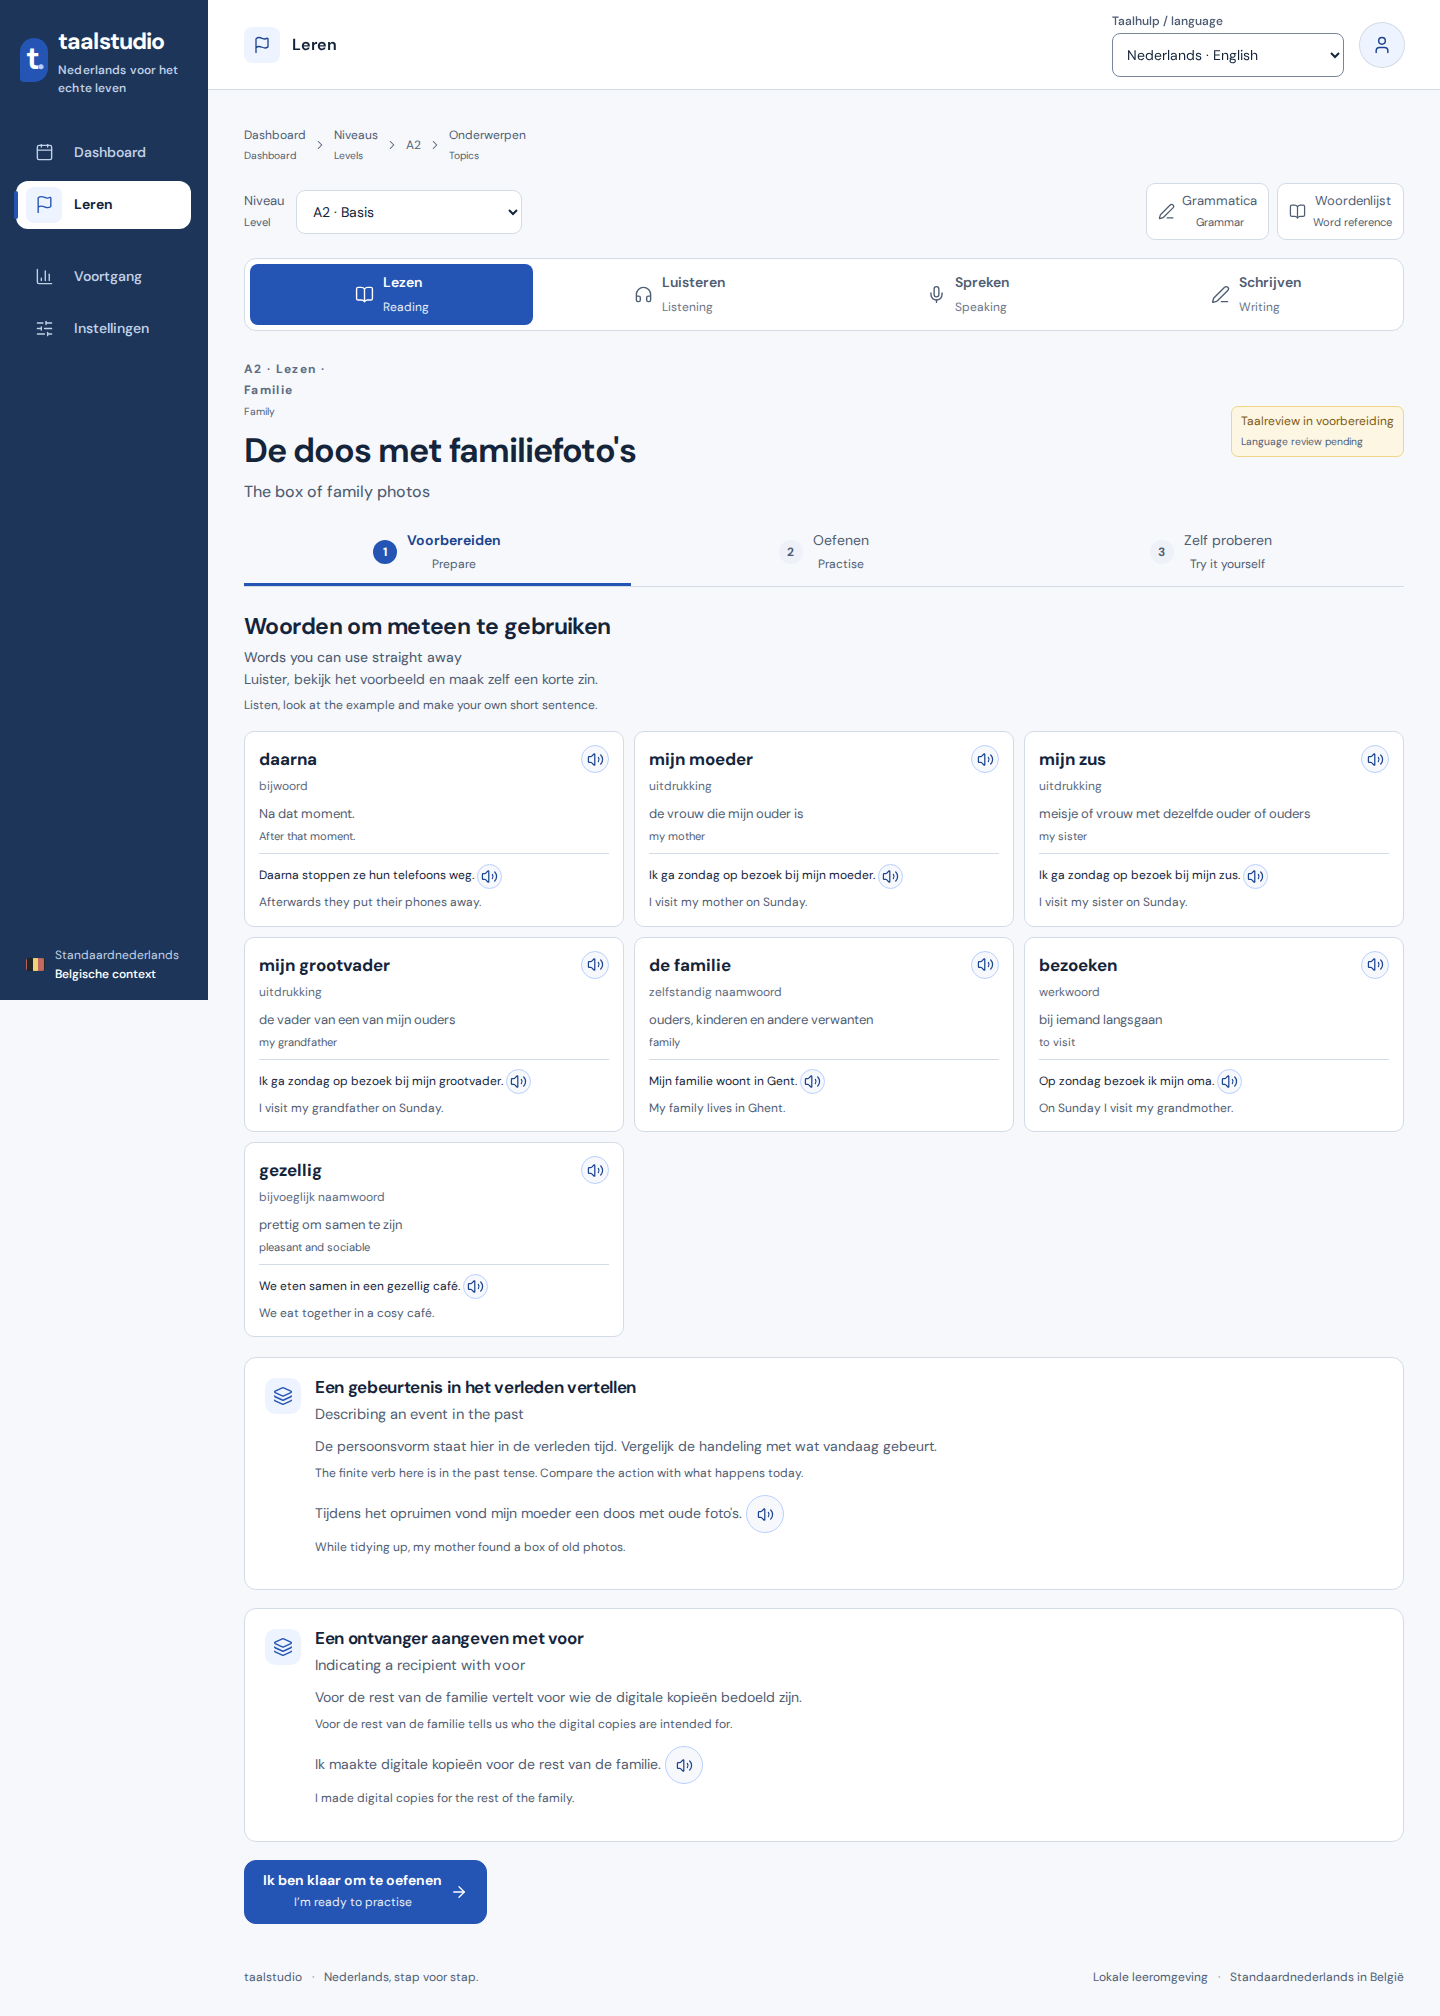
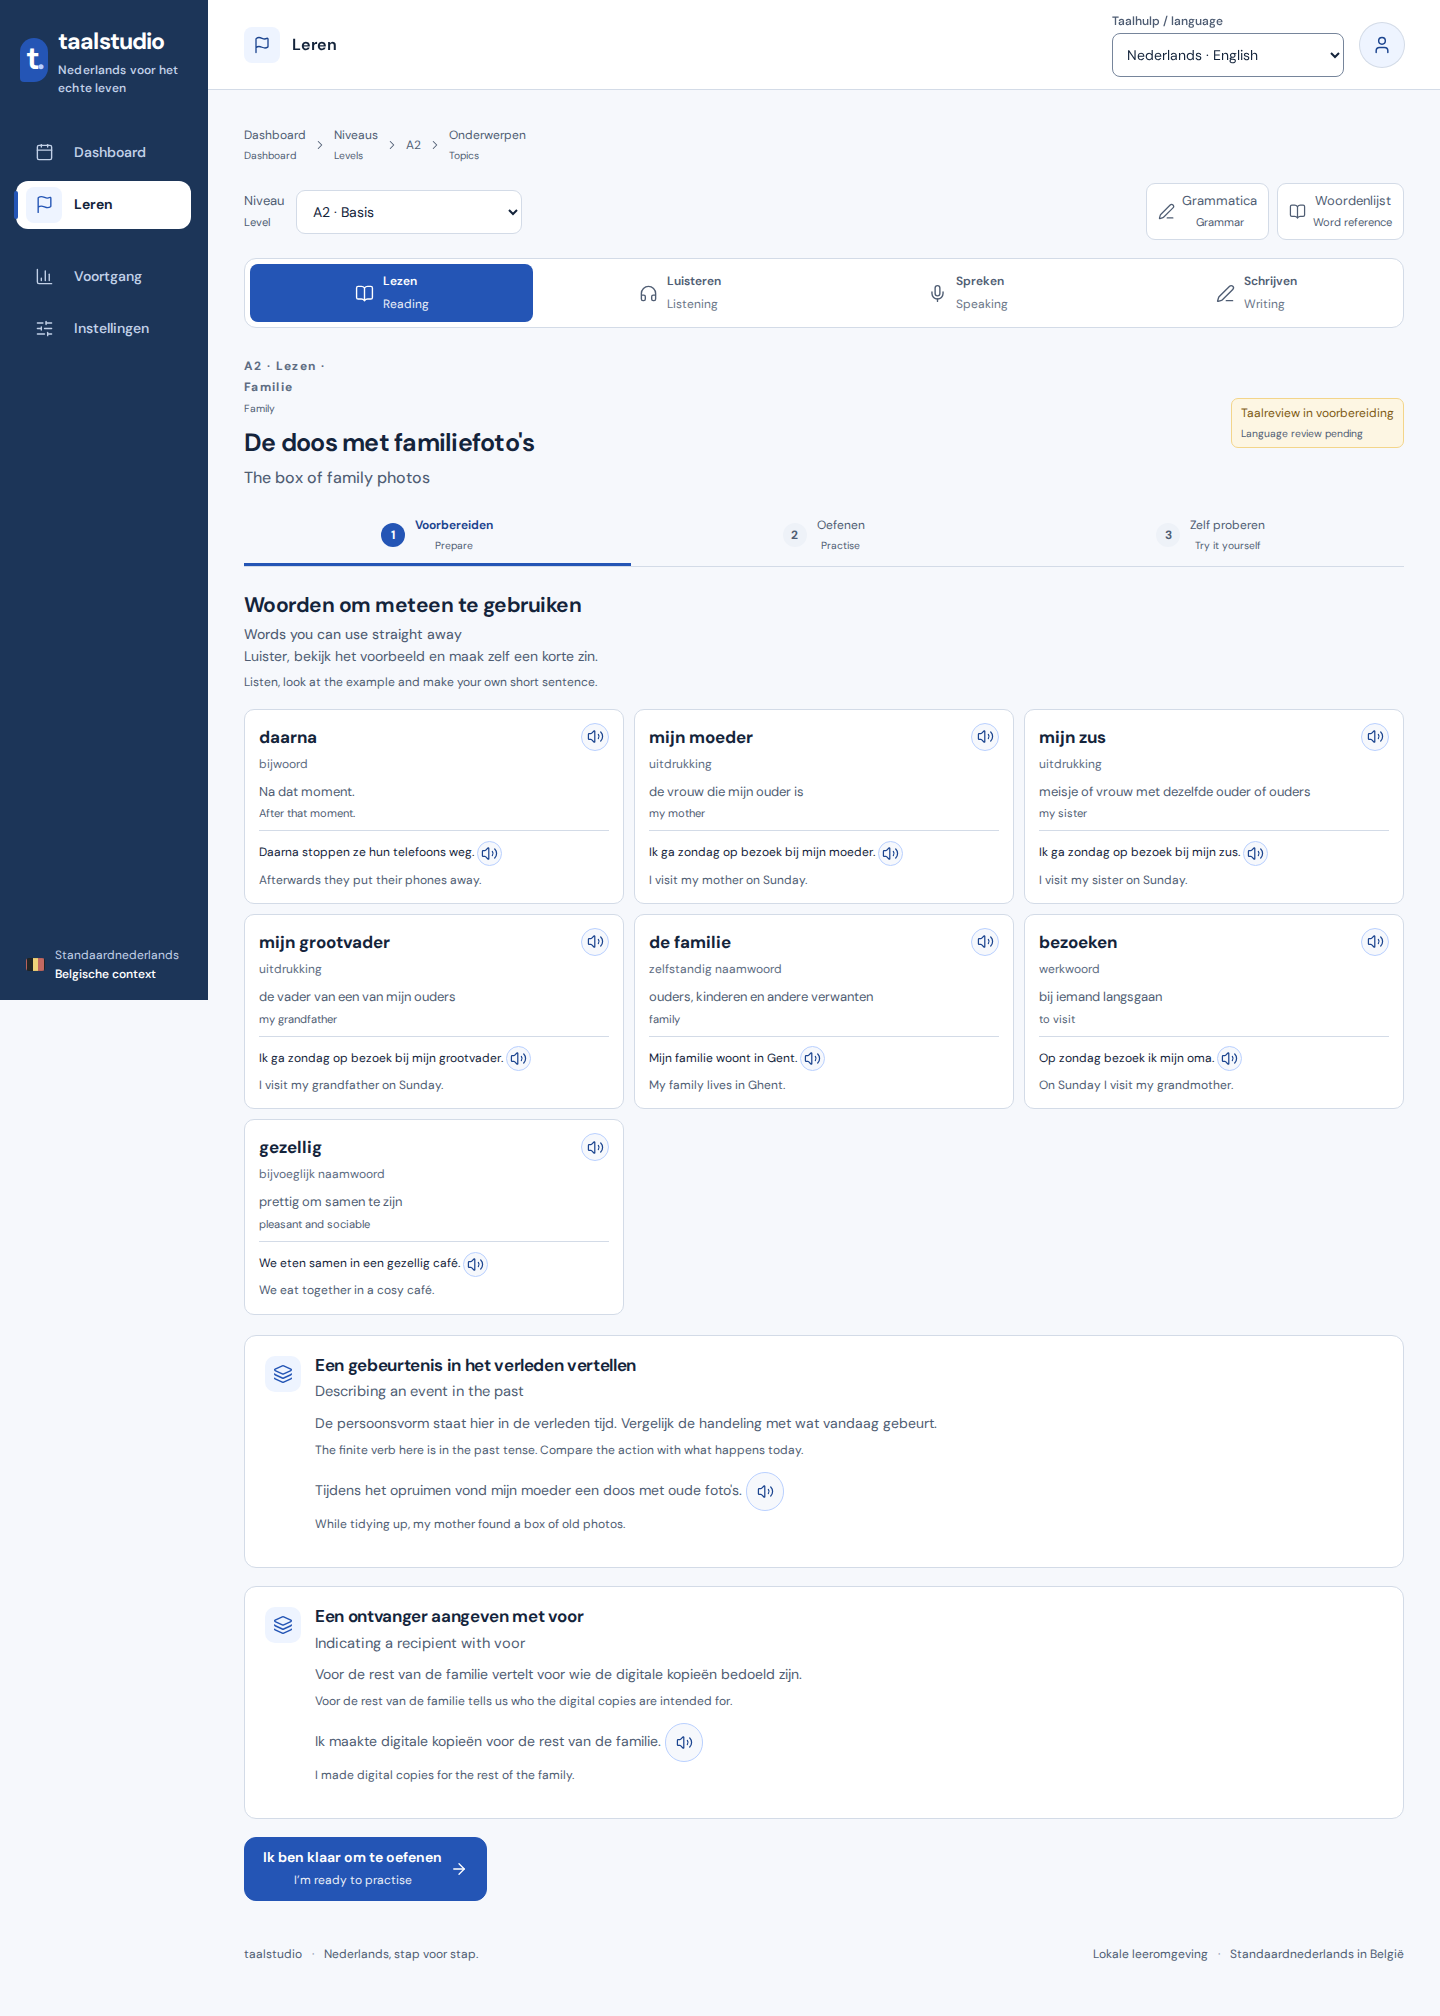
Clarify instructions for reading practice

diff --git a/apps/api/src/dlp/domains/study/content.py b/apps/api/src/dlp/domains/study/content.py
@@ -155,10 +155,14 @@ def catalogue(stage_id: str, skill: Skill, *, query: str = "", topic_group: str 
 def _part(key: str, title: dict, *, prompt: dict | None = None, sample: dict | None = None,
           text: list[dict] | None = None, questions: list[dict] | None = None,
           instructions: dict | None = None, min_words: int = 1, max_words: int = 200) -> dict:
+    guidance = copy(
+        "Lees de tekst en beantwoord de vragen. Je kunt elke zin ook beluisteren.",
+        "Read the text and answer the questions. You can also listen to each sentence.") if key == "read" else copy(
+            "Probeer eerst zelf. Vraag daarna feedback en verbeter je antwoord.",
+            "Try it yourself first. Then request feedback and improve your answer.")
     return {"id": key, "title": title, "prompt": prompt or title, "sample": sample,
             "text": text or [], "questions": questions or [],
-            "instructions": instructions or copy("Probeer eerst zelf. Bekijk daarna eventueel het voorbeeld.",
-                                                   "Try first. Reveal the example afterwards if you need it."),
+            "instructions": instructions or guidance,
             "min_words": min_words, "max_words": max_words, "practice_questions": []}
 
 
